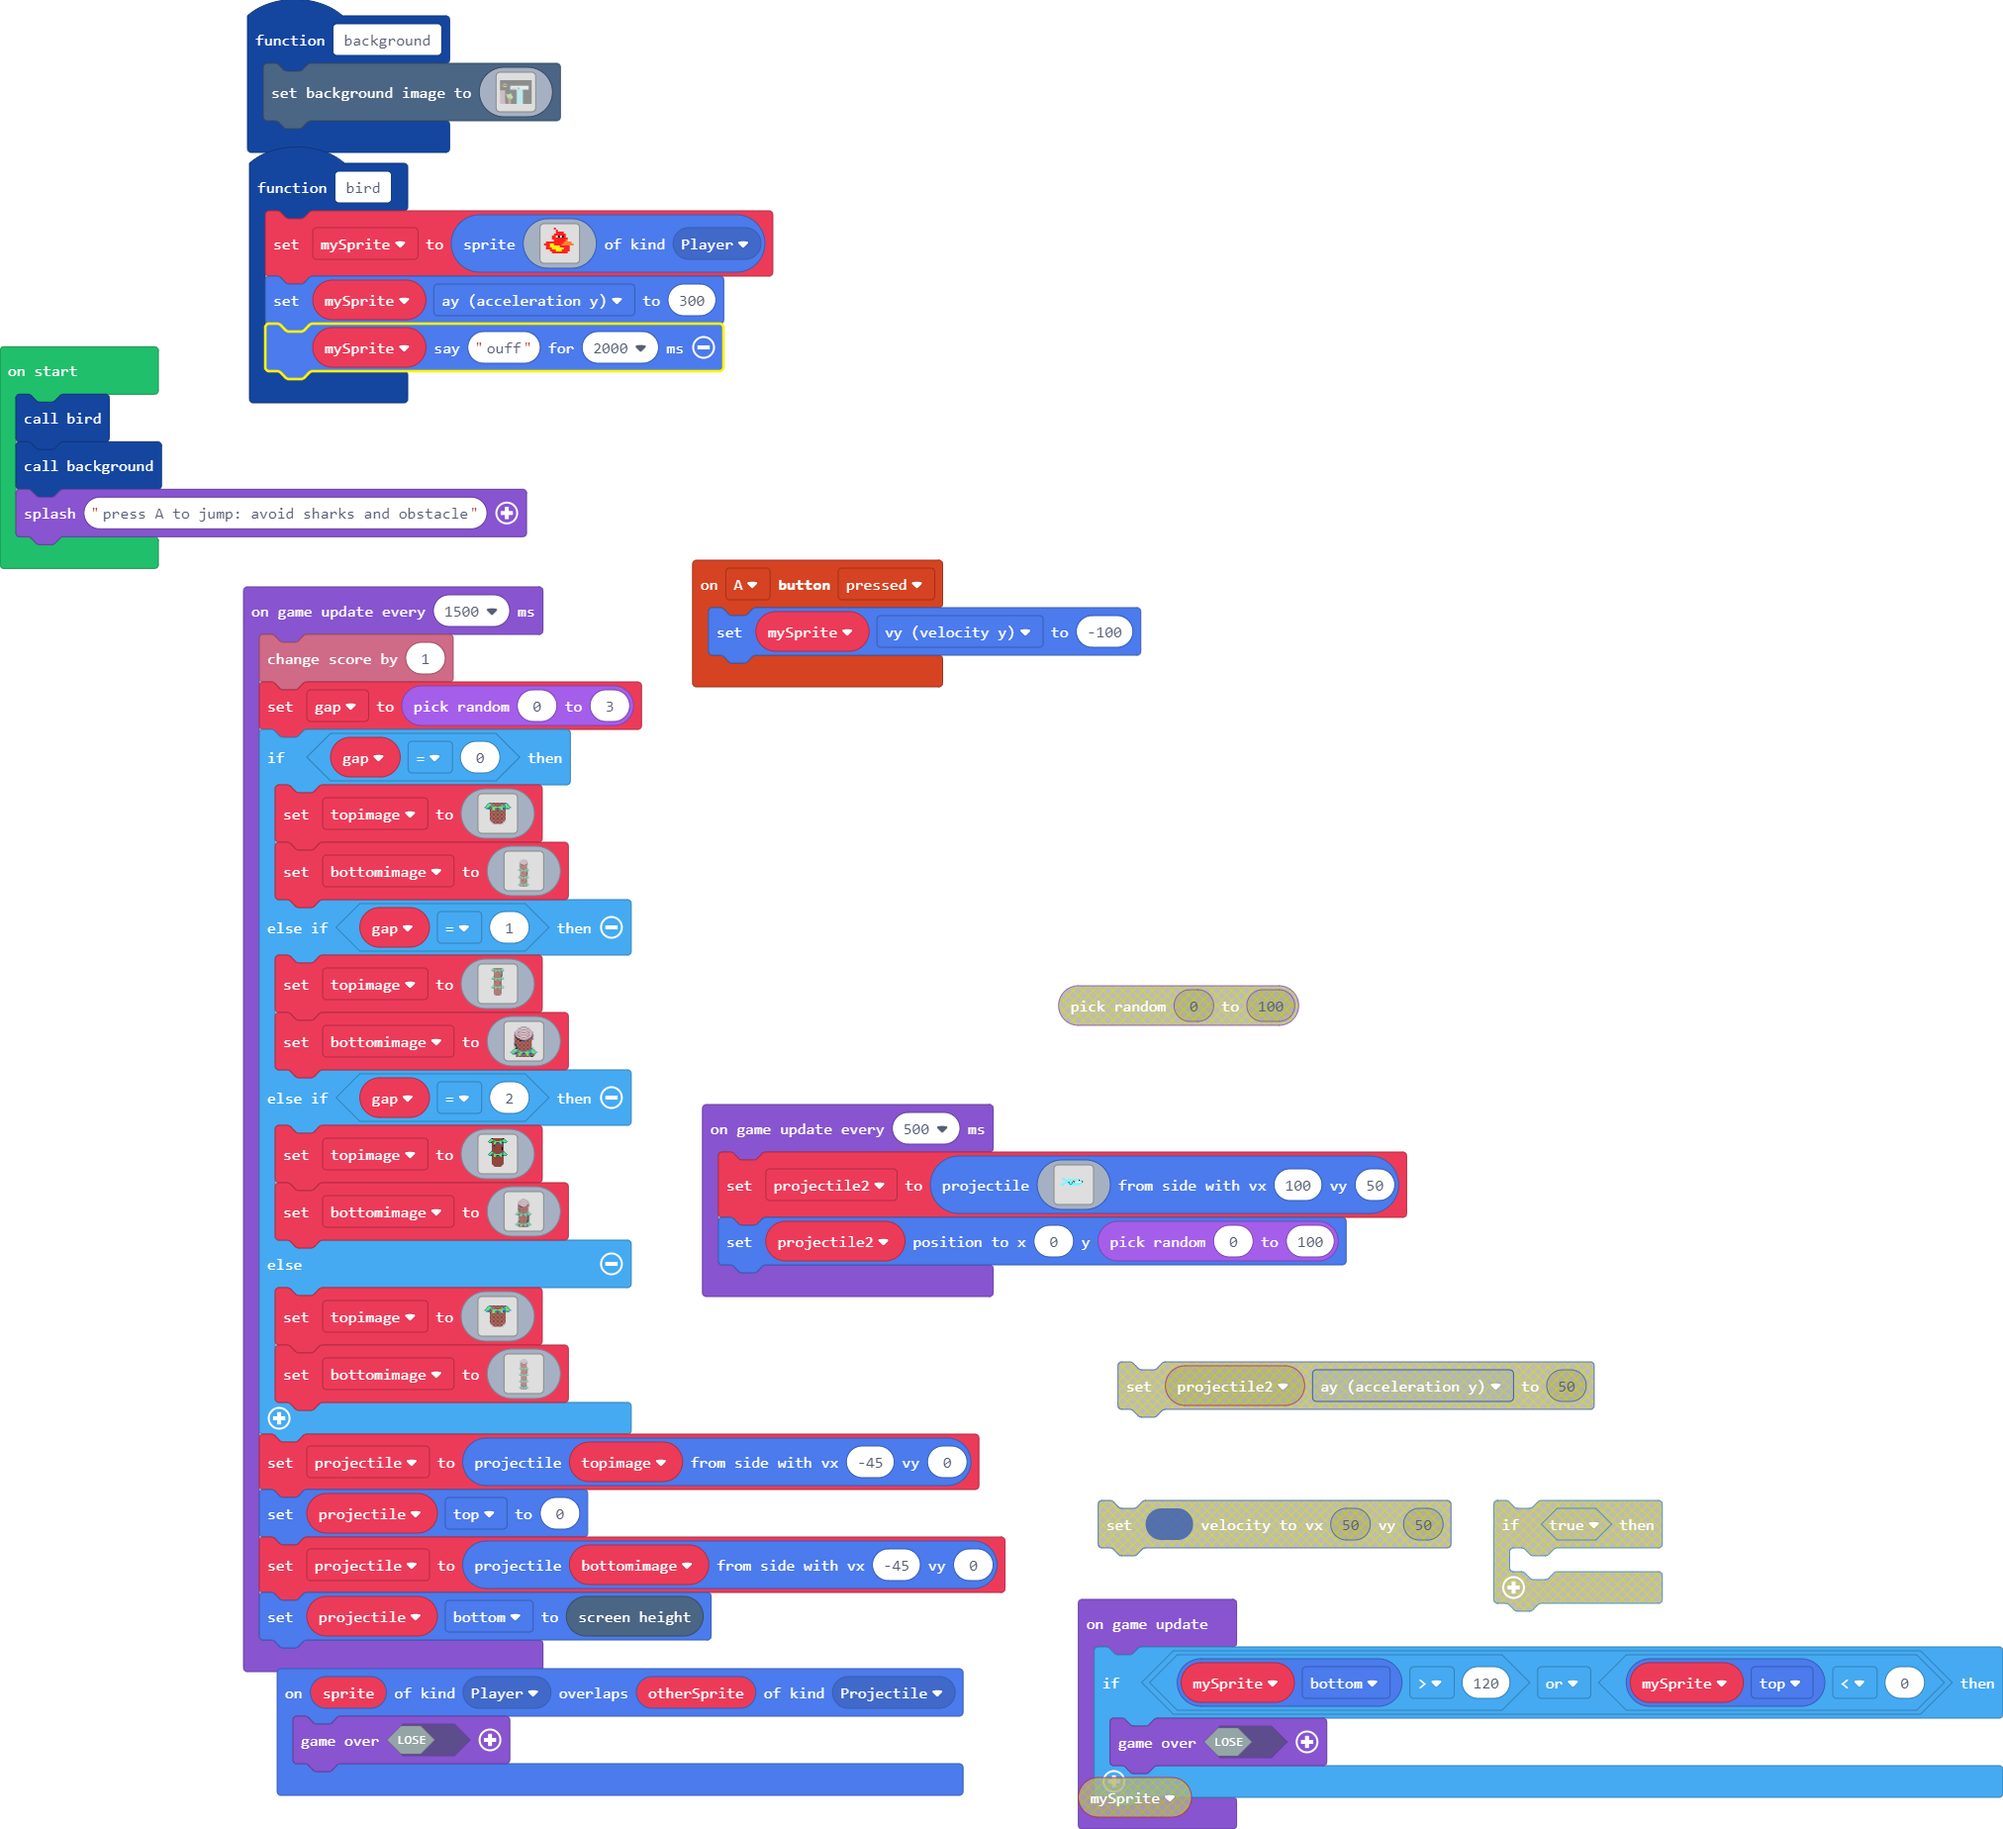
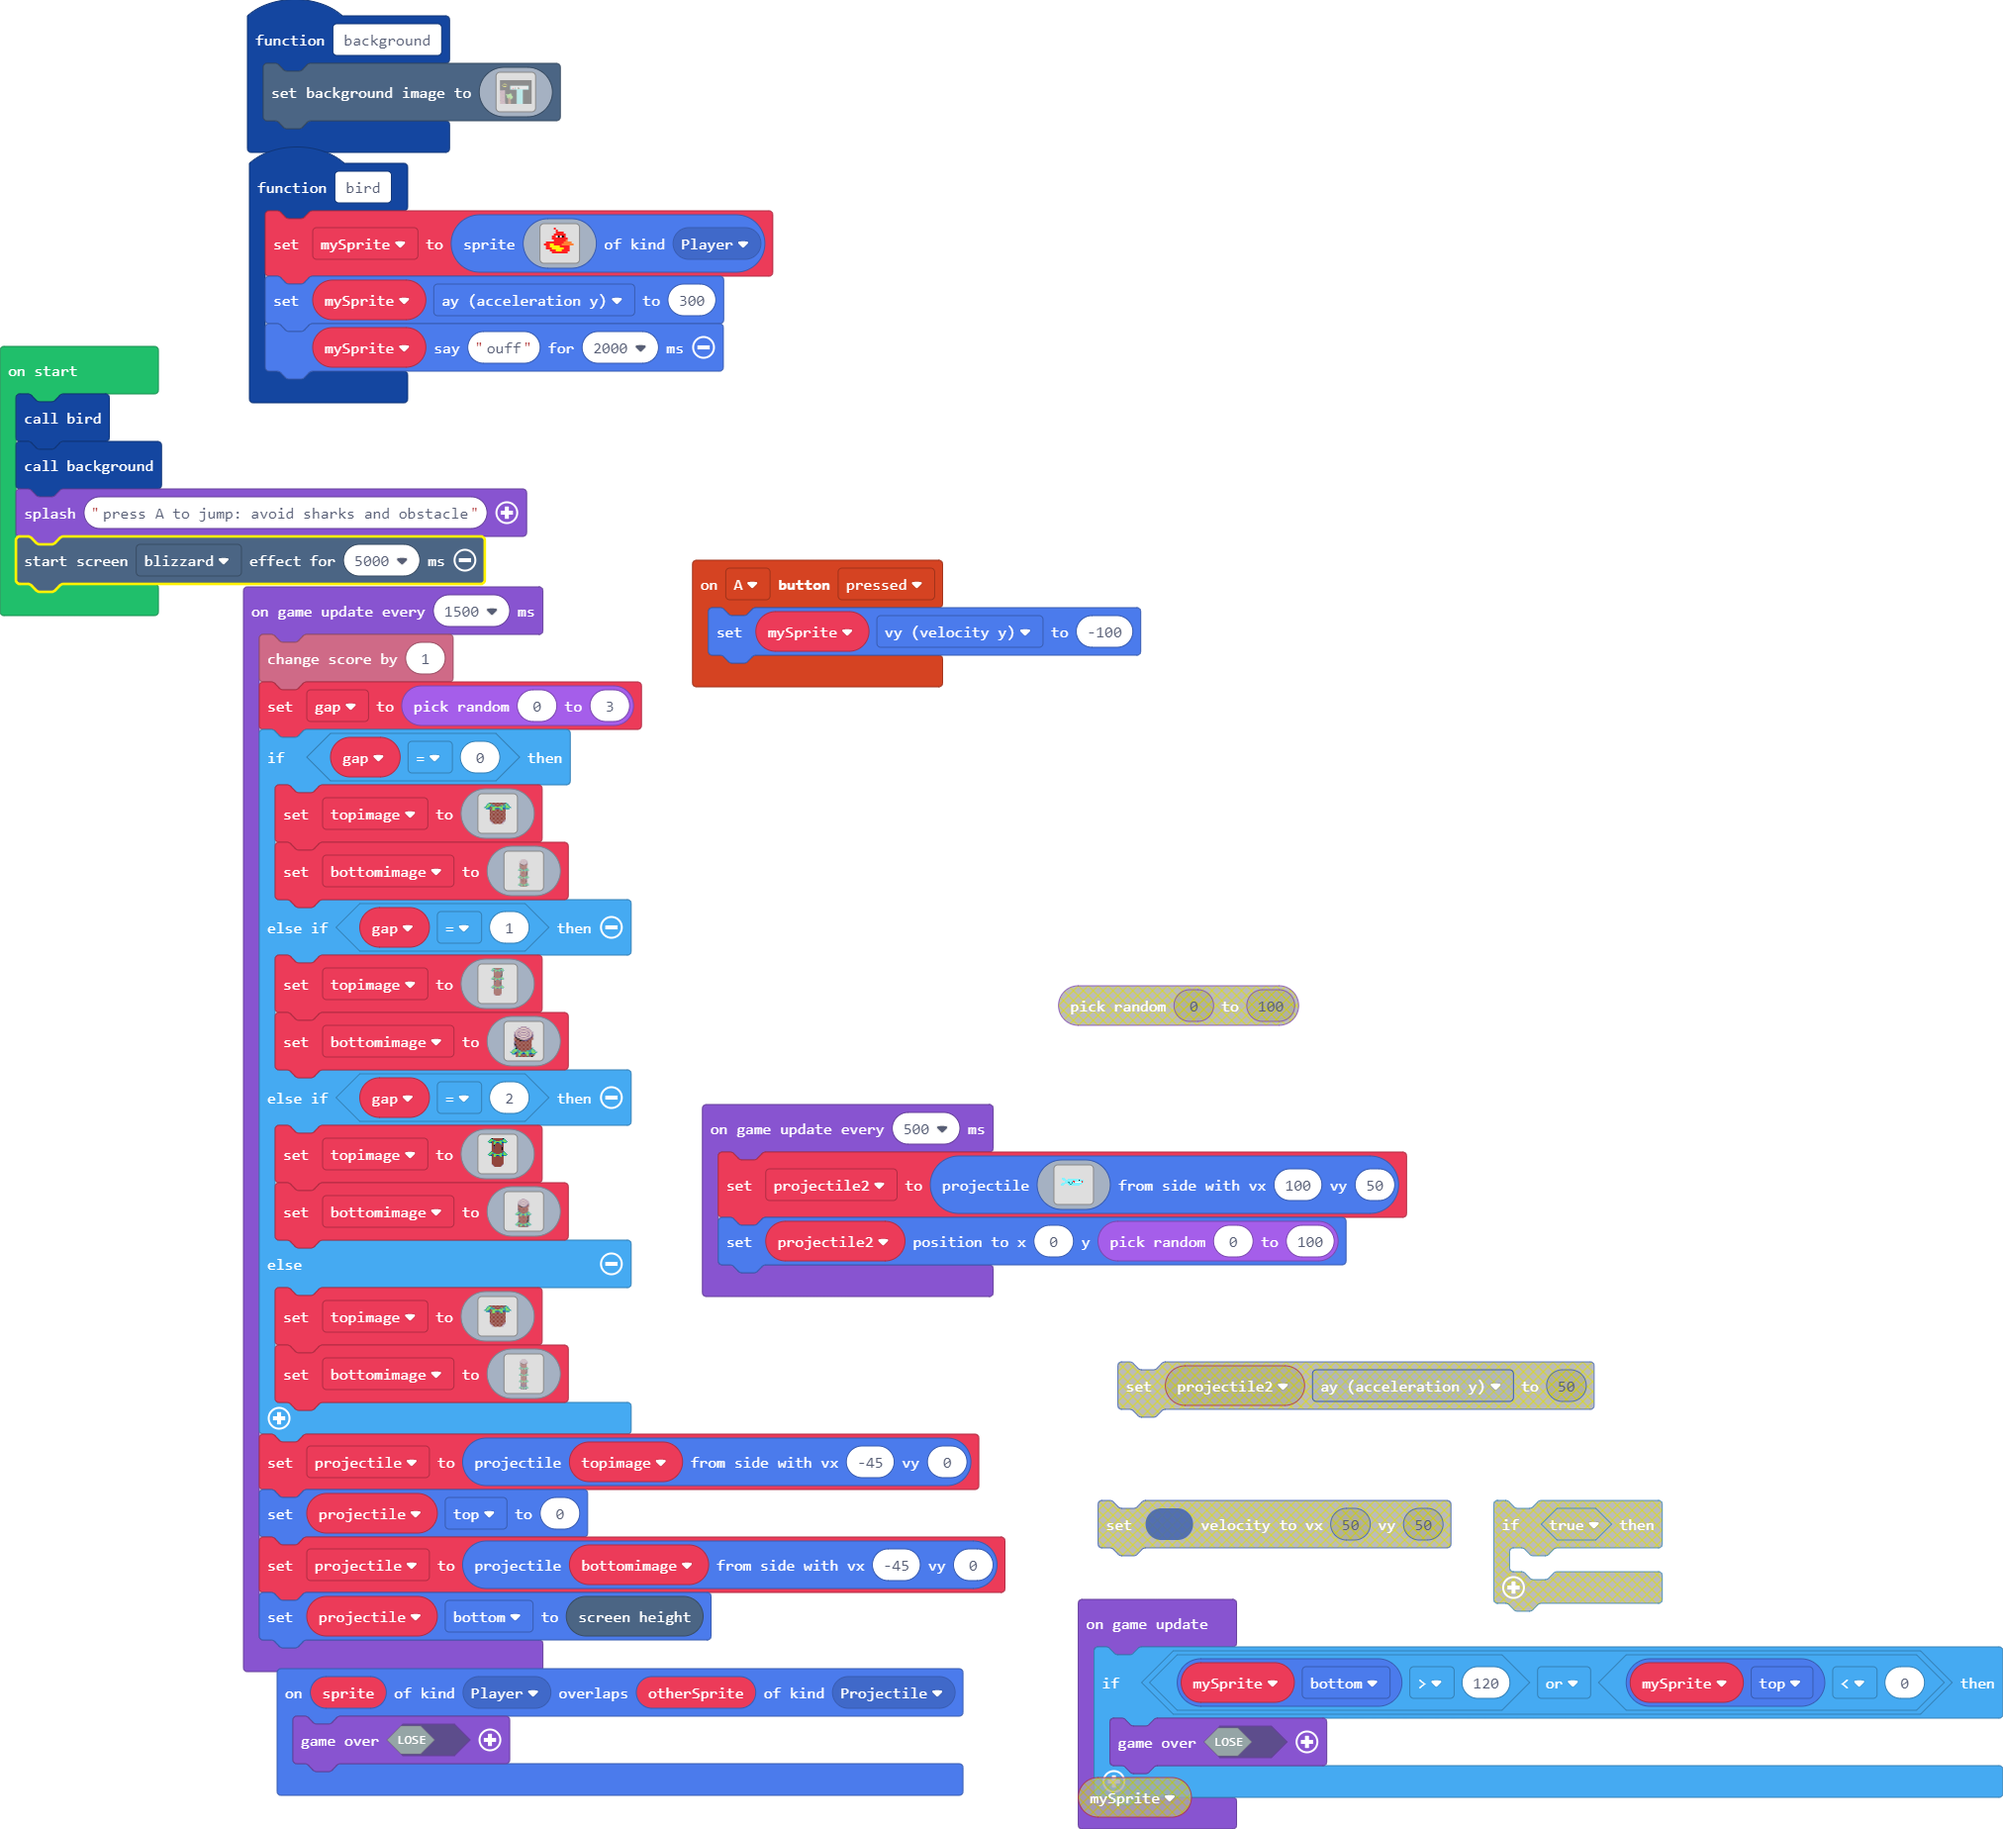
Update main.blocks, main.ts

Changed region(s): [[0.0, 0.2776, 0.249, 0.3393]]

diff --git a/main.ts b/main.ts
@@ -159,6 +159,7 @@ let mySprite: Sprite = null
 bird()
 background()
 game.splash("press A to jump: avoid sharks and obstacle")
+effects.blizzard.startScreenEffect(5000)
 game.onUpdateInterval(1500, function () {
     info.changeScoreBy(1)
     gap = Math.randomRange(0, 3)
